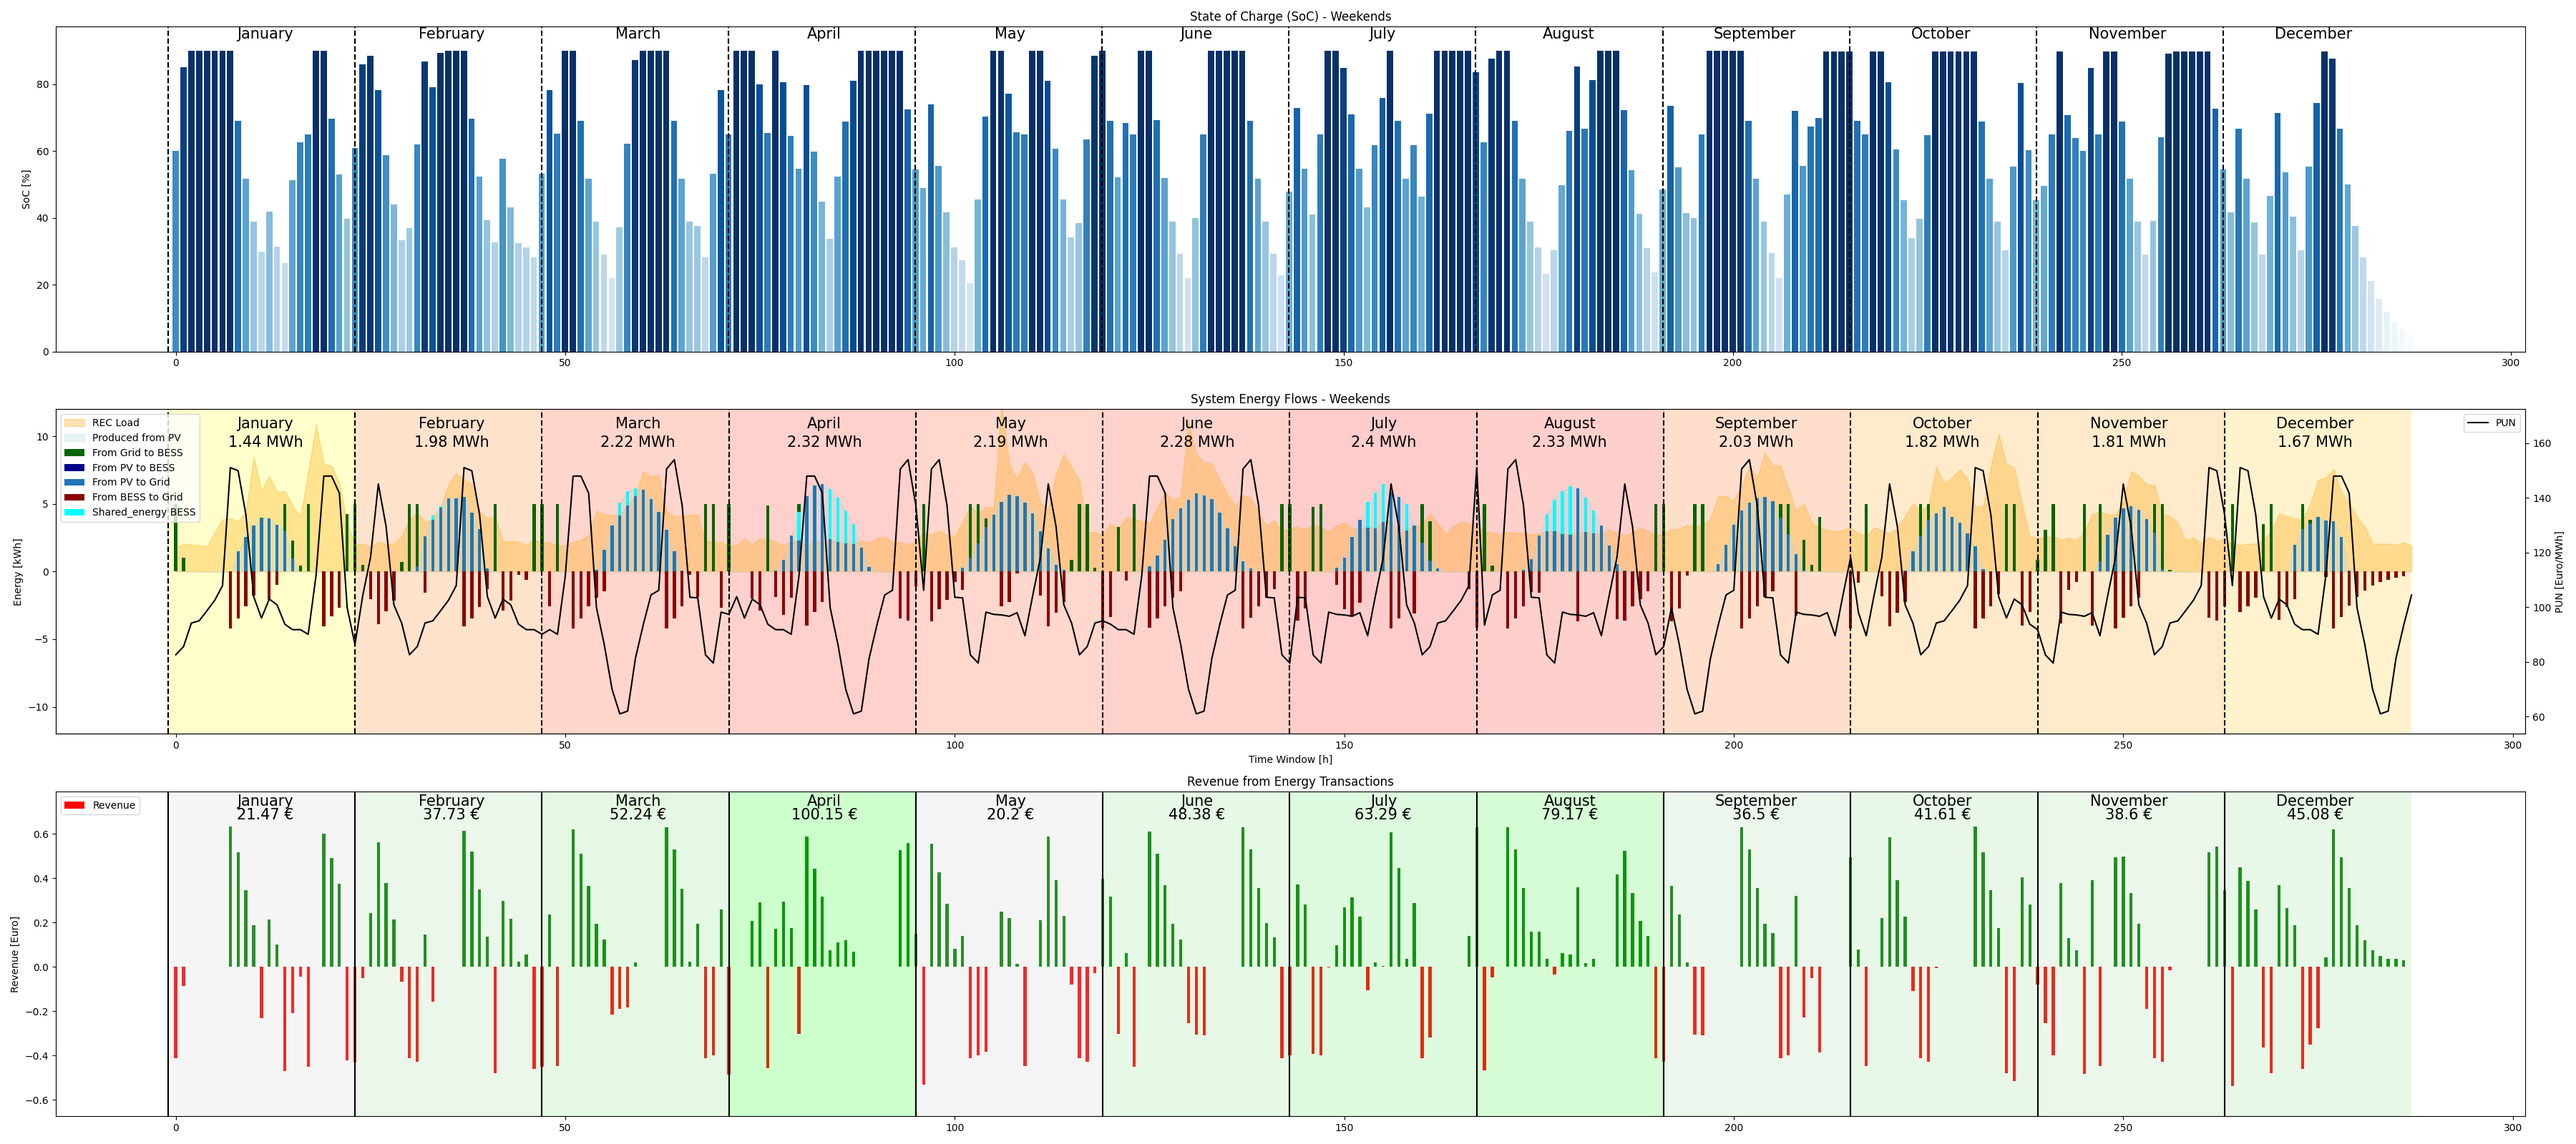
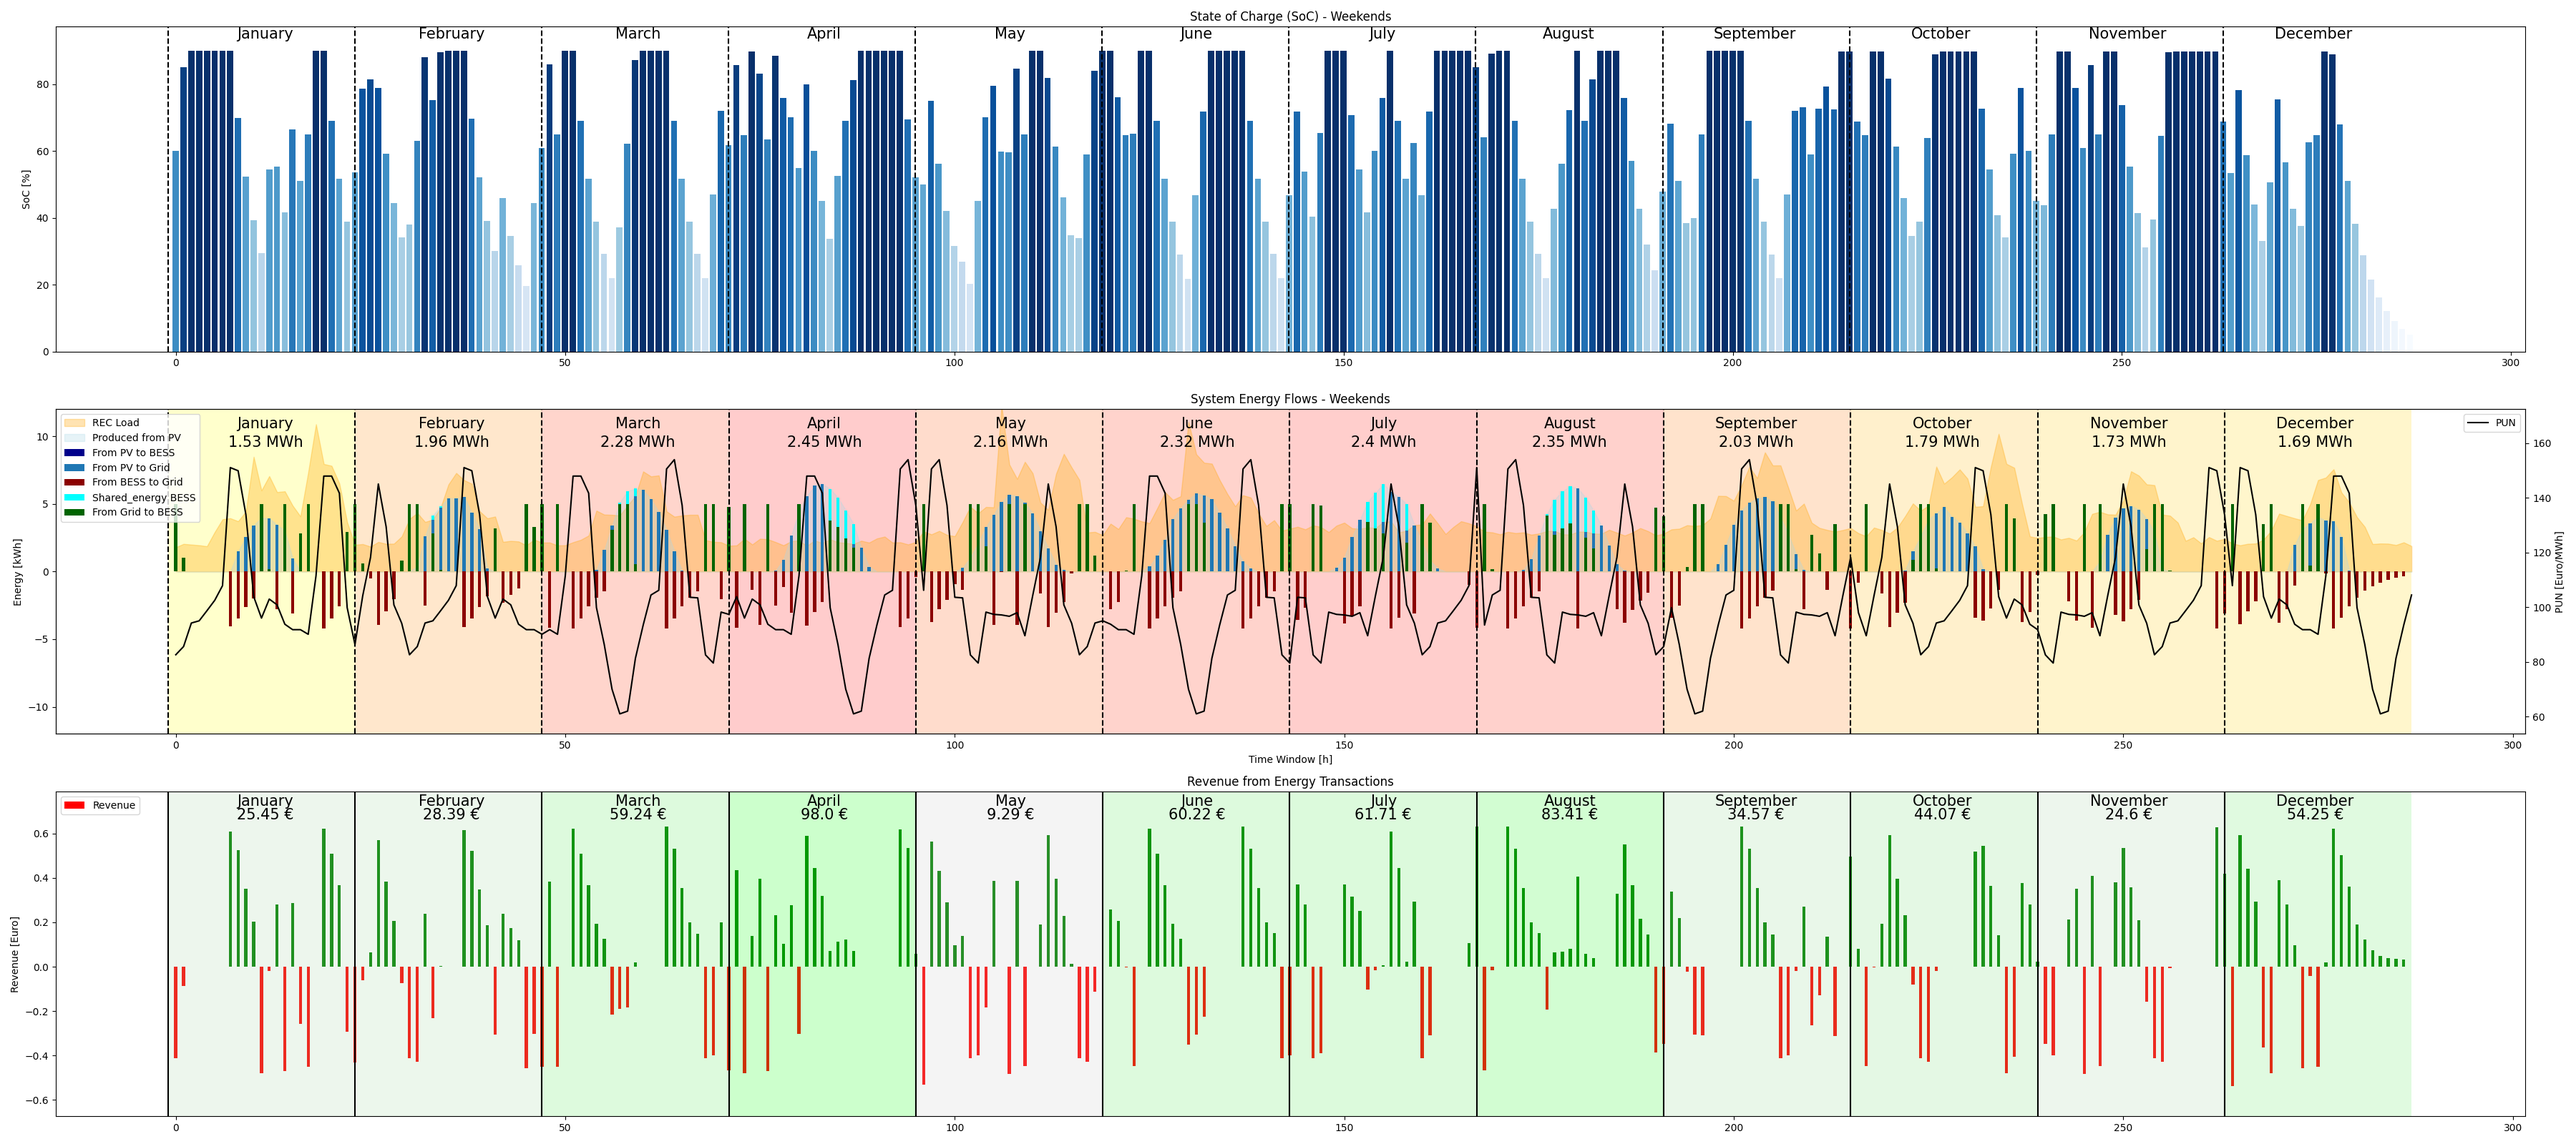
Fixing Hyperparamenters and main/objective functions

diff --git a/bess_optimization/short_simulation/objective_function_s.py b/bess_optimization/short_simulation/objective_function_s.py
@@ -97,14 +97,23 @@ class Revenues(ElementwiseProblem):
             # MEANING THAT THE BESS IS DISCHARGING, THIS VALUE IS = 0
             self.charged_energy_from_grid_to_BESS[i] = self.charged_energy_to_BESS[i]
 
+            if np.sign(self.charged_energy_from_grid_to_BESS[i]) < 0:
+                print("Warning: Charged Energy from Grid to BESS is Negative!\n\n")
+
             # UPDATE THE ENERGY DISCHARGED FROM PV DIRECTLY TO THE GRID REDUCING ITS ORIGINAL VALUE BY THE ONE THAT
             # GOES FROM PV TO THE BESS AND FROM THE PV TO THE LOAD
             self.discharged_from_pv[i] = -self.production[i]  # NEGATIVE VALUE
 
+            if np.sign(self.discharged_from_pv[i]) > 0:
+                print("Warning: Discharged Energy from PV is Positive!\n\n")
+
             # EVALUATE THE ENERGY DISCHARGED FROM BESS BASED TO THE VALUE OF THE OTHER OBTAINED ENERGY VECTORS
-            self.discharged_energy_from_BESS[i] = np.maximum(np.maximum(self.discharged_energy_from_BESS[i],
-                                                             -(self.soc[i]-soc_min)*size*power_energy),
-                                                             -size*power_energy)  # TODO: REMOVE REDUNDANCY
+            self.discharged_energy_from_BESS[i] = -np.minimum(np.minimum(np.abs(self.discharged_energy_from_BESS[i]),
+                                                             (self.soc[i]-soc_min)*size*power_energy),
+                                                             size*power_energy)  # TODO: REMOVE REDUNDANCY
+
+            if np.sign(self.discharged_energy_from_BESS[i]) > 0:
+                print("Warning: Discharged Energy from BESS is Positive!\n\n")
 
             # APPLY POD CONSTRAINTS TO ENERGY VECTORS
 
@@ -114,11 +123,17 @@ class Revenues(ElementwiseProblem):
                 # THEN LIMIT ALSO THE ENERGY CHARGED FROM GRID TO BESS (CONTROLLABLE)
                 self.charged_energy_from_grid_to_BESS[i] = np.minimum(POD_power, self.charged_energy_from_grid_to_BESS[i])
 
+                if np.sign(self.charged_energy_from_grid_to_BESS[i]) < 0:
+                    print("Warning: Charged Energy from Grid to BESS is Negative when updating POD Constraints!\n\n")
+
             # IF POD POWER IS EXCEEDED WHILE DISCHARGING ENERGY TO THE GRID
             if np.abs(self.discharged_energy_from_BESS[i]) > POD_power:
 
                 # THEN ALSO LIMIT THE ENERGY DISCHARGED FROM BESS TO THE GRID (CONTROLLABLE)
-                self.discharged_energy_from_BESS[i] = np.maximum(-POD_power, self.discharged_energy_from_BESS[i])
+                self.discharged_energy_from_BESS[i] = -np.minimum(POD_power, np.abs(self.discharged_energy_from_BESS[i]))
+
+                if np.sign(self.discharged_energy_from_BESS[i]) > 0:
+                    print("Warning: Discharged Energy from BESS is Positive when updating POD Constraints!\n\n")
 
             # UPDATE AGAIN ALL THE ENERGY VECTOR BASED ON POD POWER CONSTRAINS THAT WERE APPLIED
 
@@ -126,27 +141,34 @@ class Revenues(ElementwiseProblem):
             # ENERGY TAKEN FROM PV TO THE BESS
             self.charged_energy_to_BESS[i] = self.charged_energy_from_grid_to_BESS[i]
 
+            if np.sign(self.charged_energy_to_BESS[i]) < 0:
+                print("Warning: Charged Energy from grid to BESS is Negative!\n\n")
+
             # UPDATE THE ENERGY DISCHARGED FROM PV DIRECTLY TO THE GRID REDUCING ITS ORIGINAL VALUE BY THE ONE THAT
-            self.discharged_energy_from_BESS[i] = np.maximum(np.maximum(self.discharged_energy_from_BESS[i],
-                                                             -(self.soc[i]-soc_min)*size*power_energy),
-                                                             -size*power_energy)
+            self.discharged_energy_from_BESS[i] = -np.minimum(np.minimum(np.abs(self.discharged_energy_from_BESS[i]),
+                                                             (self.soc[i]-soc_min)*size*power_energy),
+                                                             size*power_energy)
+
+            if np.sign(self.discharged_energy_from_BESS[i]) > 0:
+                print("Warning: Discharged Energy from BESS is Positive!\n\n")
+
             # UPDATE SOC
 
             # IF BESS IS CHARGING
-            if self.c_d_timeseries[i] >= 0:
+            if self.charged_energy_from_grid_to_BESS[i] > 0:
                 self.soc[i + 1] = min(soc_max, self.soc[i] + (self.charged_energy_to_BESS[i]
                                                             ) / size)
-
             # IF BESS IS DISCHARGING
-            else:
-                self.soc[i + 1] = max(soc_min, self.soc[i] + (self.discharged_energy_from_BESS[i]
+            elif self.discharged_energy_from_BESS[i] < 0:
+                self.soc[i + 1] = max(soc_min, self.soc[i] - (np.abs(self.discharged_energy_from_BESS[i])
                                                               ) / size)
+            else:
+                self.soc[i+1] = self.soc[i]
+
 
             # EVALUATING SHARED ENERGY
             self.shared_energy_REC[i] = np.minimum(self.rec_load[i], np.abs(self.discharged_from_pv[i]))
-
             self.remaining_production[i] = np.maximum(np.abs(self.discharged_from_pv[i]) - self.shared_energy_REC[i], 0.0)
-
             self.shared_energy_BESS[i] = np.minimum(self.remaining_production[i], self.charged_energy_to_BESS[i])
 
             total_energy = self.charged_energy_to_BESS[i] + np.abs(self.discharged_energy_from_BESS[i])

diff --git a/bess_optimization/short_simulation/main_s.py b/bess_optimization/short_simulation/main_s.py
@@ -123,6 +123,21 @@ class Main:
         from argparser_s import n_cycles
         from argparser_s import soc_max, soc_min
 
+        # INITIALIZE VARIABLES
+        n_cycler = [0] * time_window
+        n_cycler[0] = n_cycles
+        # total_available_energy = [0.0] * time_window
+        # self_consumption = [0.0] * time_window
+        from_pv_to_load = [0.0] * time_window
+        from_BESS_to_load = [0.0] * time_window
+        load_self_consumption = [0.0] * time_window
+        taken_from_pv = [0.0] * time_window
+        charged_energy_from_grid_to_BESS = [0.0] * time_window
+        discharged_from_pv = [0.0] * time_window
+        remaining_production = [0.0] * time_window
+        shared_energy_rec = [0.0] * time_window
+        shared_energy_bess = [0.0] * time_window
+
         # GET CHARGE/DISCHARGE INTERPOLATED FUNCTIONS
         c_func = charge_rate_interpolated_func
         d_func = discharge_rate_interpolated_func
@@ -139,25 +154,10 @@ class Main:
         production = pv_production['P']
         rec_load = data
 
-        # INITIALIZE VARIABLES
-        n_cycler = [0] * time_window
-        n_cycler[0] = n_cycles
-        # total_available_energy = [0.0] * time_window
-        # self_consumption = [0.0] * time_window
-        from_pv_to_load = [0.0] * time_window
-        from_BESS_to_load = [0.0] * time_window
-        load_self_consumption = [0.0] * time_window
-        taken_from_pv = [0.0] * time_window
-        charged_energy_from_grid_to_BESS = [0.0] * time_window
-        discharged_from_pv = [0.0] * time_window
-        remaining_production = [0.0] * time_window
-        shared_energy_rec = [0.0] * time_window
-        shared_energy_bess = [0.0] * time_window
-
         # Loop through time window to calculate state of charge and cycles
         for i in range(time_window - 1):
 
-            # UPDATE SOC MAX BESED ON ITS ACTUAL AND PAST DEGRADATION
+            # UPDATE SOC MAX BASED ON ITS ACTUAL AND PAST DEGRADATION
             # GET PREVIOUS NUMBER OF CYCLES
             n_cycles_prev = n_cycles
             max_capacity = degradation(n_cycles_prev) / 100
@@ -172,29 +172,36 @@ class Main:
             discharged_from_pv[i] = -production[i]  # NEGATIVE VALUE
 
             # EVALUATE THE ENERGY DISCHARGED FROM BESS BASED TO THE VALUE OF THE OTHER OBTAINED ENERGY VECTORS
-            discharged_energy[i] = np.maximum(np.maximum(discharged_energy[i],
-                                                         -(soc[i] - soc_min) * size * power_energy),
-                                              -size * power_energy)
+            discharged_energy[i] = -np.minimum(np.minimum(np.abs(discharged_energy[i]),
+                                                             (soc[i]-soc_min)*size*power_energy),
+                                                             size*power_energy)
 
             # APPLY POD CONSTRAINTS TO ENERGY VECTORS
             if charged_energy_from_grid_to_BESS[i] > POD_power:
-                charged_energy_from_grid_to_BESS[i] = np.maximum(POD_power, 0.0)
+                charged_energy_from_grid_to_BESS[i] = np.minimum(POD_power, charged_energy_from_grid_to_BESS[i])
 
             if np.abs(discharged_energy[i]) > POD_power:
-                discharged_energy[i] = np.maximum(-POD_power, discharged_energy[i])
+                discharged_energy[i] = -np.minimum(POD_power, np.abs(discharged_energy[i]))
 
             # UPDATE THE ENERGY THAT THE BESS WANT TO BE CHARGED AS SUM OF THE ONE CHARGED FROM GRID TO BESS AND THE
             # ENERGY TAKEN FROM PV TO THE BESS
             charged_energy[i] = charged_energy_from_grid_to_BESS[i]
 
+            discharged_energy[i] = -np.minimum(np.minimum(np.abs(discharged_energy[i]),
+                                                             (soc[i]-soc_min)*size*power_energy),
+                                                             size*power_energy)
+
             # UPDATE SOC
             # IF BESS I CHARGING
-            if c_d_timeseries[i] >= 0:
-                soc[i + 1] = min(soc_max, soc[i] + (charged_energy[i]) / size)
+            if charged_energy[i] > 0:
+                soc[i + 1] = min(soc_max, soc[i] + (np.abs(charged_energy[i]))/size)
 
             # IF BESS IS DISCHARGING
+            elif discharged_energy[i] < 0:
+                soc[i + 1] = max(soc_min, soc[i] - (np.abs(discharged_energy[i]))/size)
+
             else:
-                soc[i + 1] = max(soc_min, soc[i] + (discharged_energy[i]) / size)
+                soc[i+1] = soc[i]
 
             # EVALUATING SHARED ENERGY
             shared_energy_rec[i] = np.minimum(rec_load[i], np.abs(discharged_from_pv[i]))

diff --git a/bess_optimization/short_simulation/Plots_s.py b/bess_optimization/short_simulation/Plots_s.py
@@ -509,14 +509,11 @@ class EnergyPlots:
         ax1.fill_between(time_steps, load, color='orange', alpha=0.3, label='REC Load')
         ax1.fill_between(time_steps, 0, produced_from_pv, color='lightblue', alpha=0.3, label='Produced from PV')
         width = 0.4
-
-        ax1.bar(time_steps, [1] * np.array(taken_from_grid), width=width, color='darkgreen', label='From Grid to BESS')
-        ax1.bar(time_steps, taken_from_pv, color='darkblue', bottom=-discharged_from_pv + np.array(from_pv_to_load),
-                width=width, label='From PV to BESS')
+        ax1.bar(time_steps, taken_from_pv, color='darkblue', bottom=-discharged_from_pv + np.array(from_pv_to_load), width=width, label='From PV to BESS')
         ax1.bar(time_steps, -discharged_from_pv, width=width, label='From PV to Grid', bottom = from_pv_to_load)
-        ax1.bar(time_steps, discharged_energy, width=width, color='darkred', bottom=np.array(taken_from_grid),
-                label='From BESS to Grid')
+        ax1.bar(time_steps, discharged_energy, width=width, color='darkred', bottom=np.array(taken_from_grid), label='From BESS to Grid')
         ax1.bar(time_steps, shared_energy_bess, color='cyan', width=width, label='Shared_energy BESS', bottom=load)
+        ax1.bar(time_steps, [1] * np.array(taken_from_grid), width=width, color='darkgreen', label='From Grid to BESS')
 
         ax1.set_ylabel('Energy [kWh]')
         ax1.set_title('System Energy Flows')
